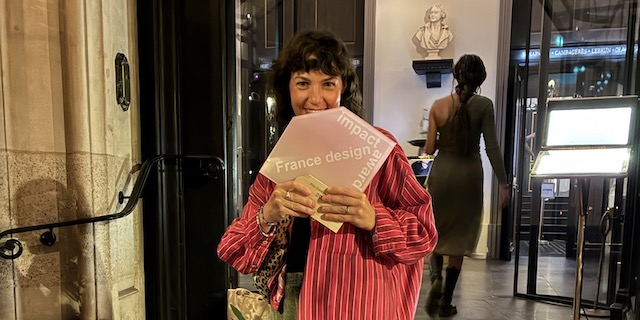
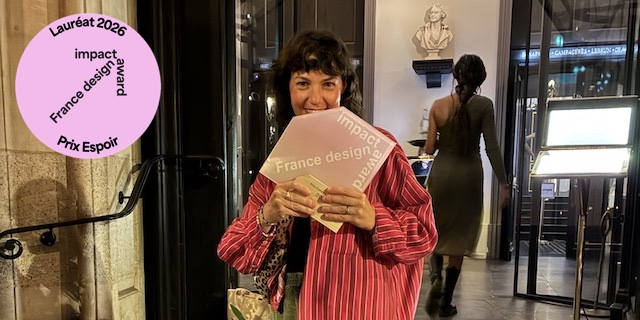
Modifications de contenus

Changed region(s): [[0.0, 0.0312, 0.25, 0.5]]

diff --git a/articles/prix.html b/articles/prix.html
@@ -52,13 +52,15 @@
           <section class="article">
 
             <section class="entete">
-              <p>Lucile Sauzet, pilote du Projet Chaleur, a reçu le Prix Espoir, lors de la cérémonie de la France Design Impact Award 2026, organisé par l’APCI (Association pour la Promotion de la Création Industrielle).</p>
+              <p>Lucile Sauzet, pilote du Projet Chaleur, a reçu le Prix Espoir, lors de la cérémonie de la France Design Impact Award 2026, organisée par l’APCI (Association pour la Promotion de la Création Industrielle), de la main de Brigitte Borga, figure emblématique du Design.</p>
             </section>
 
             <section class="contenu">
-              <p>Ce prix récompense le travail de création originale et de promotion d’un Art de vivre la chaleur sobre, soutenable, élégant et réellement confortable présenté dans l’exposition « Avoir Chaud mais pas trop » présentée pour la première fois à Cluny en février 2026.</p>
-              <p>Le projet Chaleur fait partie de l’exposition mettant en avant un design à impact positif et durable. L’exposition a fait ses débuts en avant-première à Maison&Objet (10-14 septembre 2026), puis s'est installée à Paris dans le cadre de la Paris France Design Week.</p>
-              <p>L'exposition sera ensuite présenté à la Cité du Design (Galerie nationale du design) à Saint-Étienne pour la clôture du festival prévue le 30 septembre 2026.</p>
+              <p>Ce prix récompense le travail de création originale et de promotion d’un Art de vivre la chaleur, sobre, soutenable, élégant et réellement confortable, présenté dans l’exposition « Avoir Chaud mais pas trop » qui a été inauguré à Cluny en février 2026.</p>
+              <p>Le Projet Chaleur fait partie de l’exposition mettant en avant un design à impact positif et durable. L’exposition a fait ses débuts en avant-première à Maison & Objet (10-14 septembre 2026), puis s'est installée à Paris dans le cadre de la Paris France Design Week.</p>
+              <p>L'exposition sera ensuite présentée à la Cité du Design, dans la Galerie nationale du design, à Saint-Étienne pour la clôture du Festival prévue le 30 septembre 2026.</p>
+              <p>L’équipe du Projet Chaleur s’est vu décerné un abonnement Teams de l’outil du CoCopryce LAB.</p>
+              <p>Merci !</p>
 
               <img src="/images/articles/prix/image.jpeg" alt="">
 

diff --git a/studio.html b/studio.html
@@ -57,7 +57,7 @@
             <img src="/images/studio/cahier.jpeg" alt="">
           </div>
           <div class="element chaud">
-            <p><strong>Faire évoluer nos représentation du confort </br></strong>en faisant la promotion d’un art de vivre sobre, élégant et redonnant du pouvoir d’agir à chacun.</p>
+            <p><strong>Faire évoluer nos représentations du confort </br></strong>en faisant la promotion d’un art de vivre sobre, élégant et redonnant du pouvoir d’agir à chacun.</p>
             <img src="/images/studio/eau.jpeg" alt="">
           </div>
         </div>
